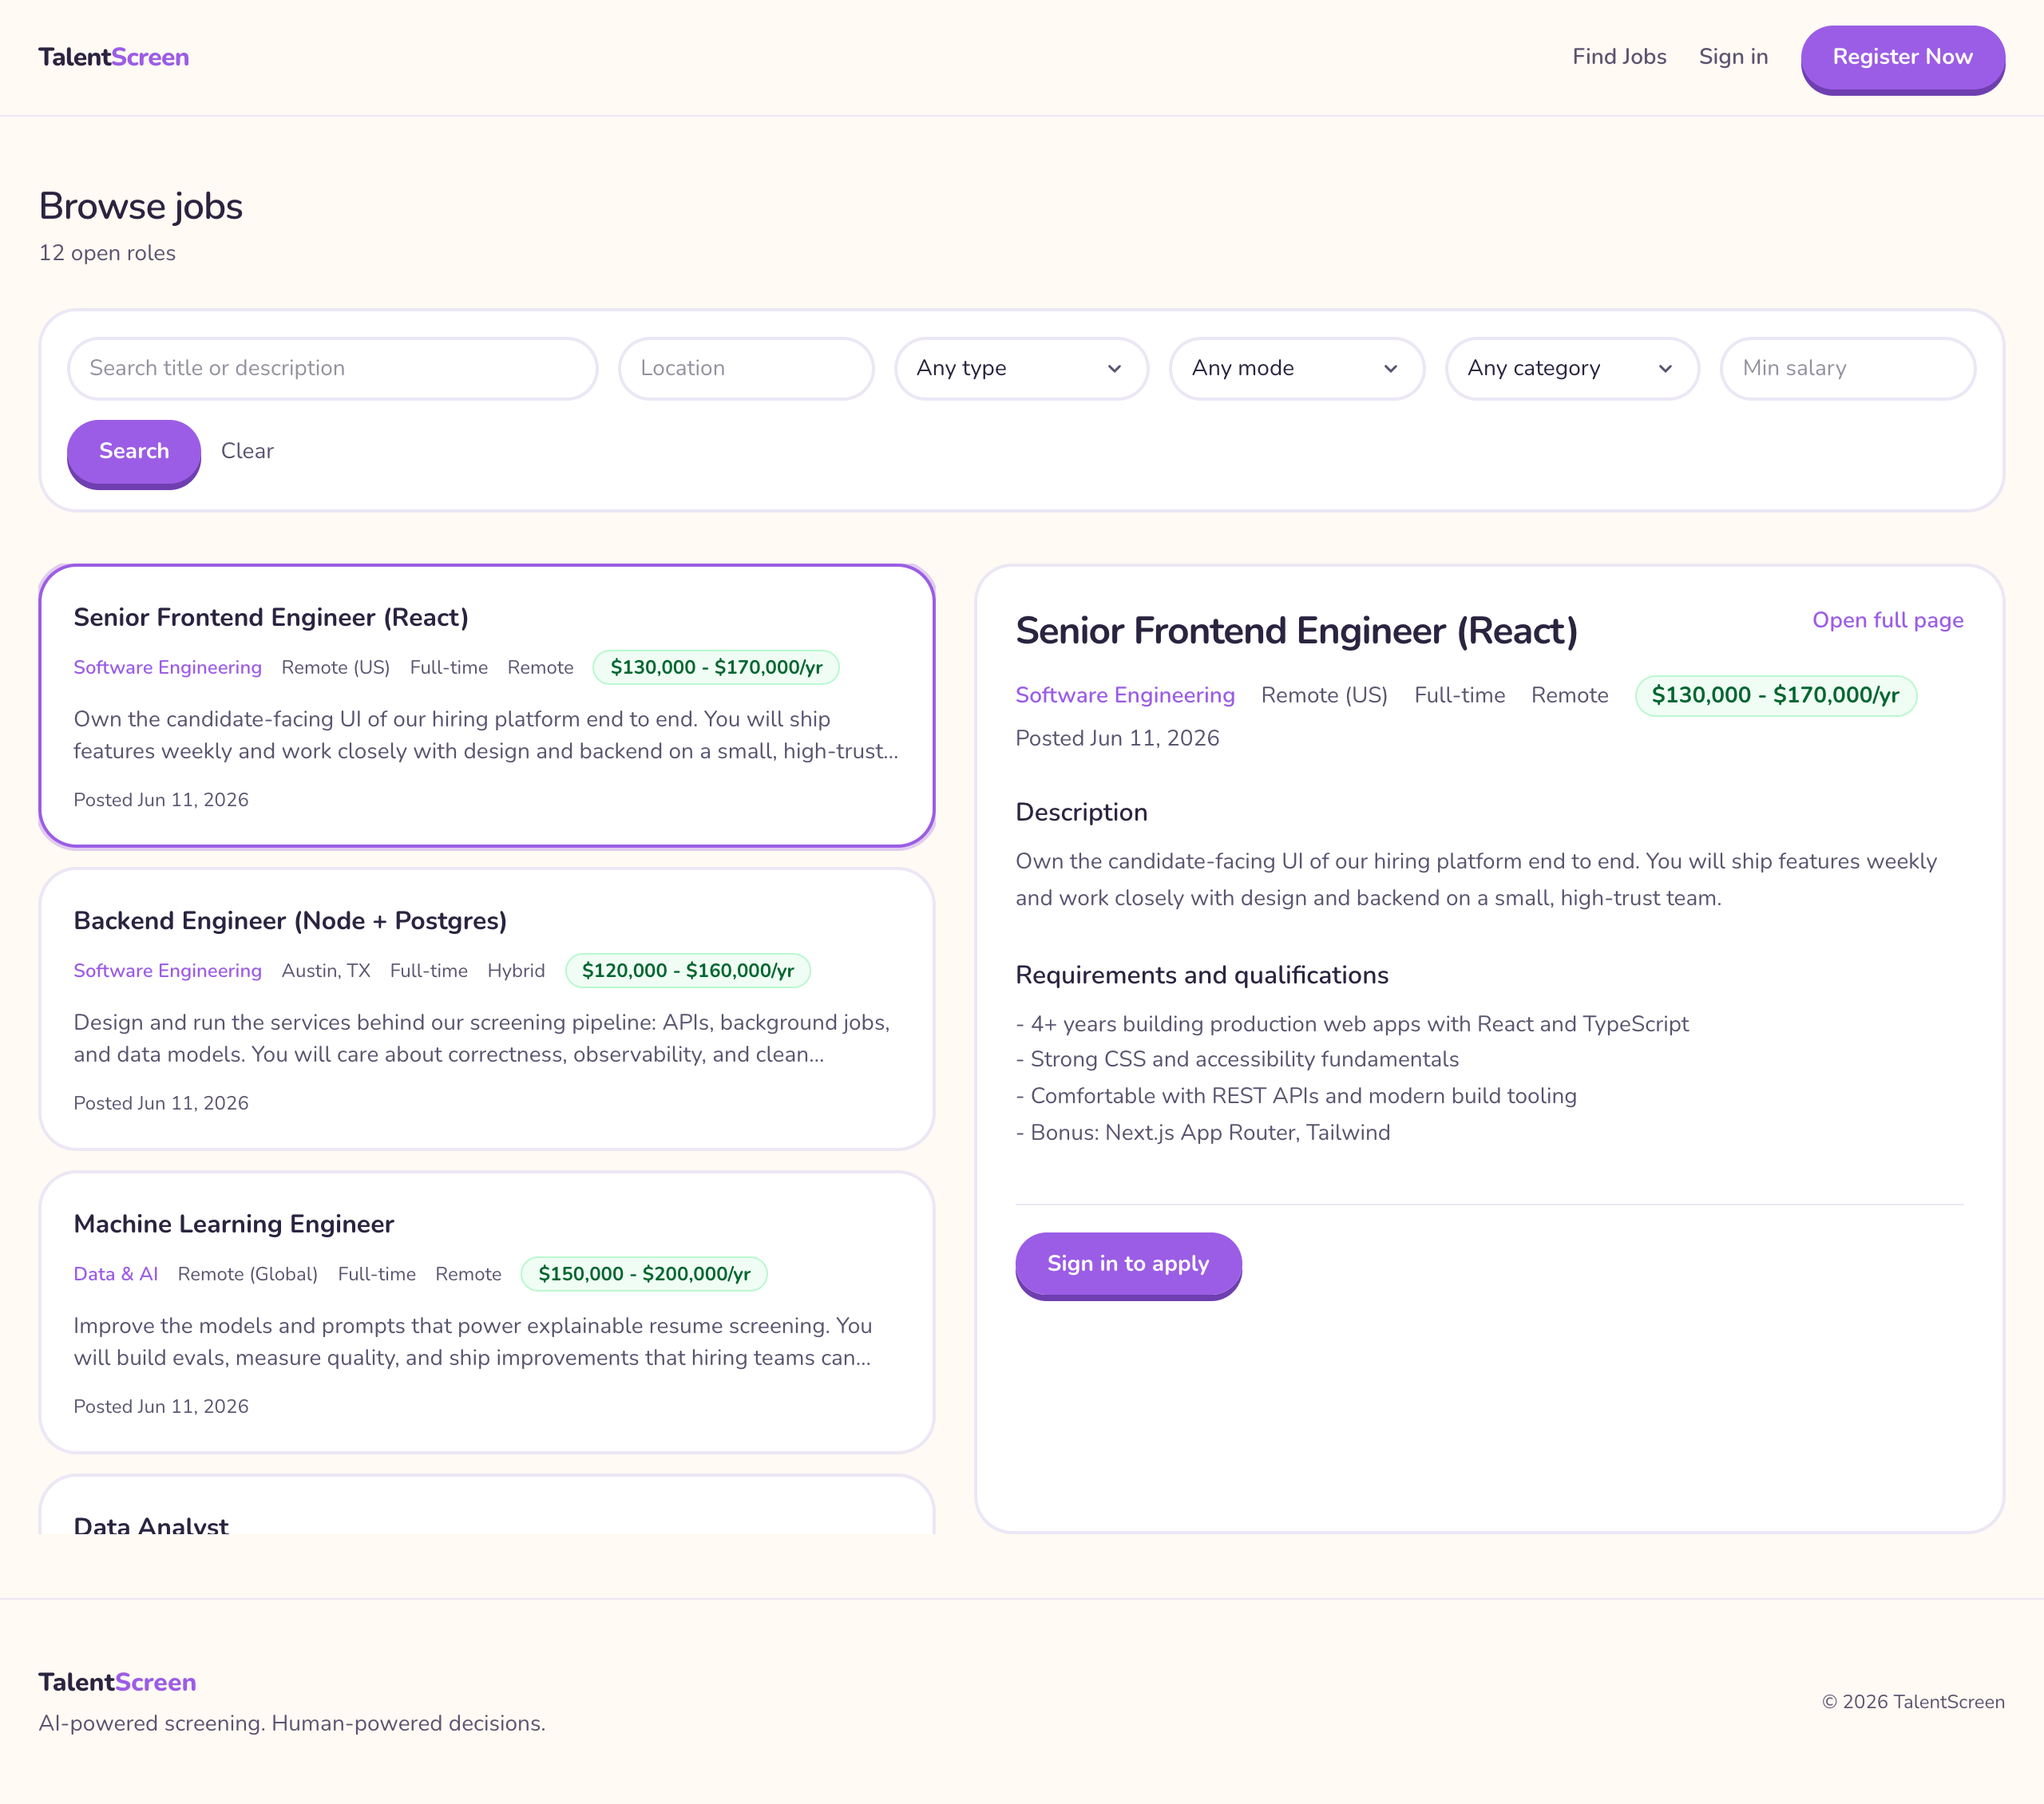
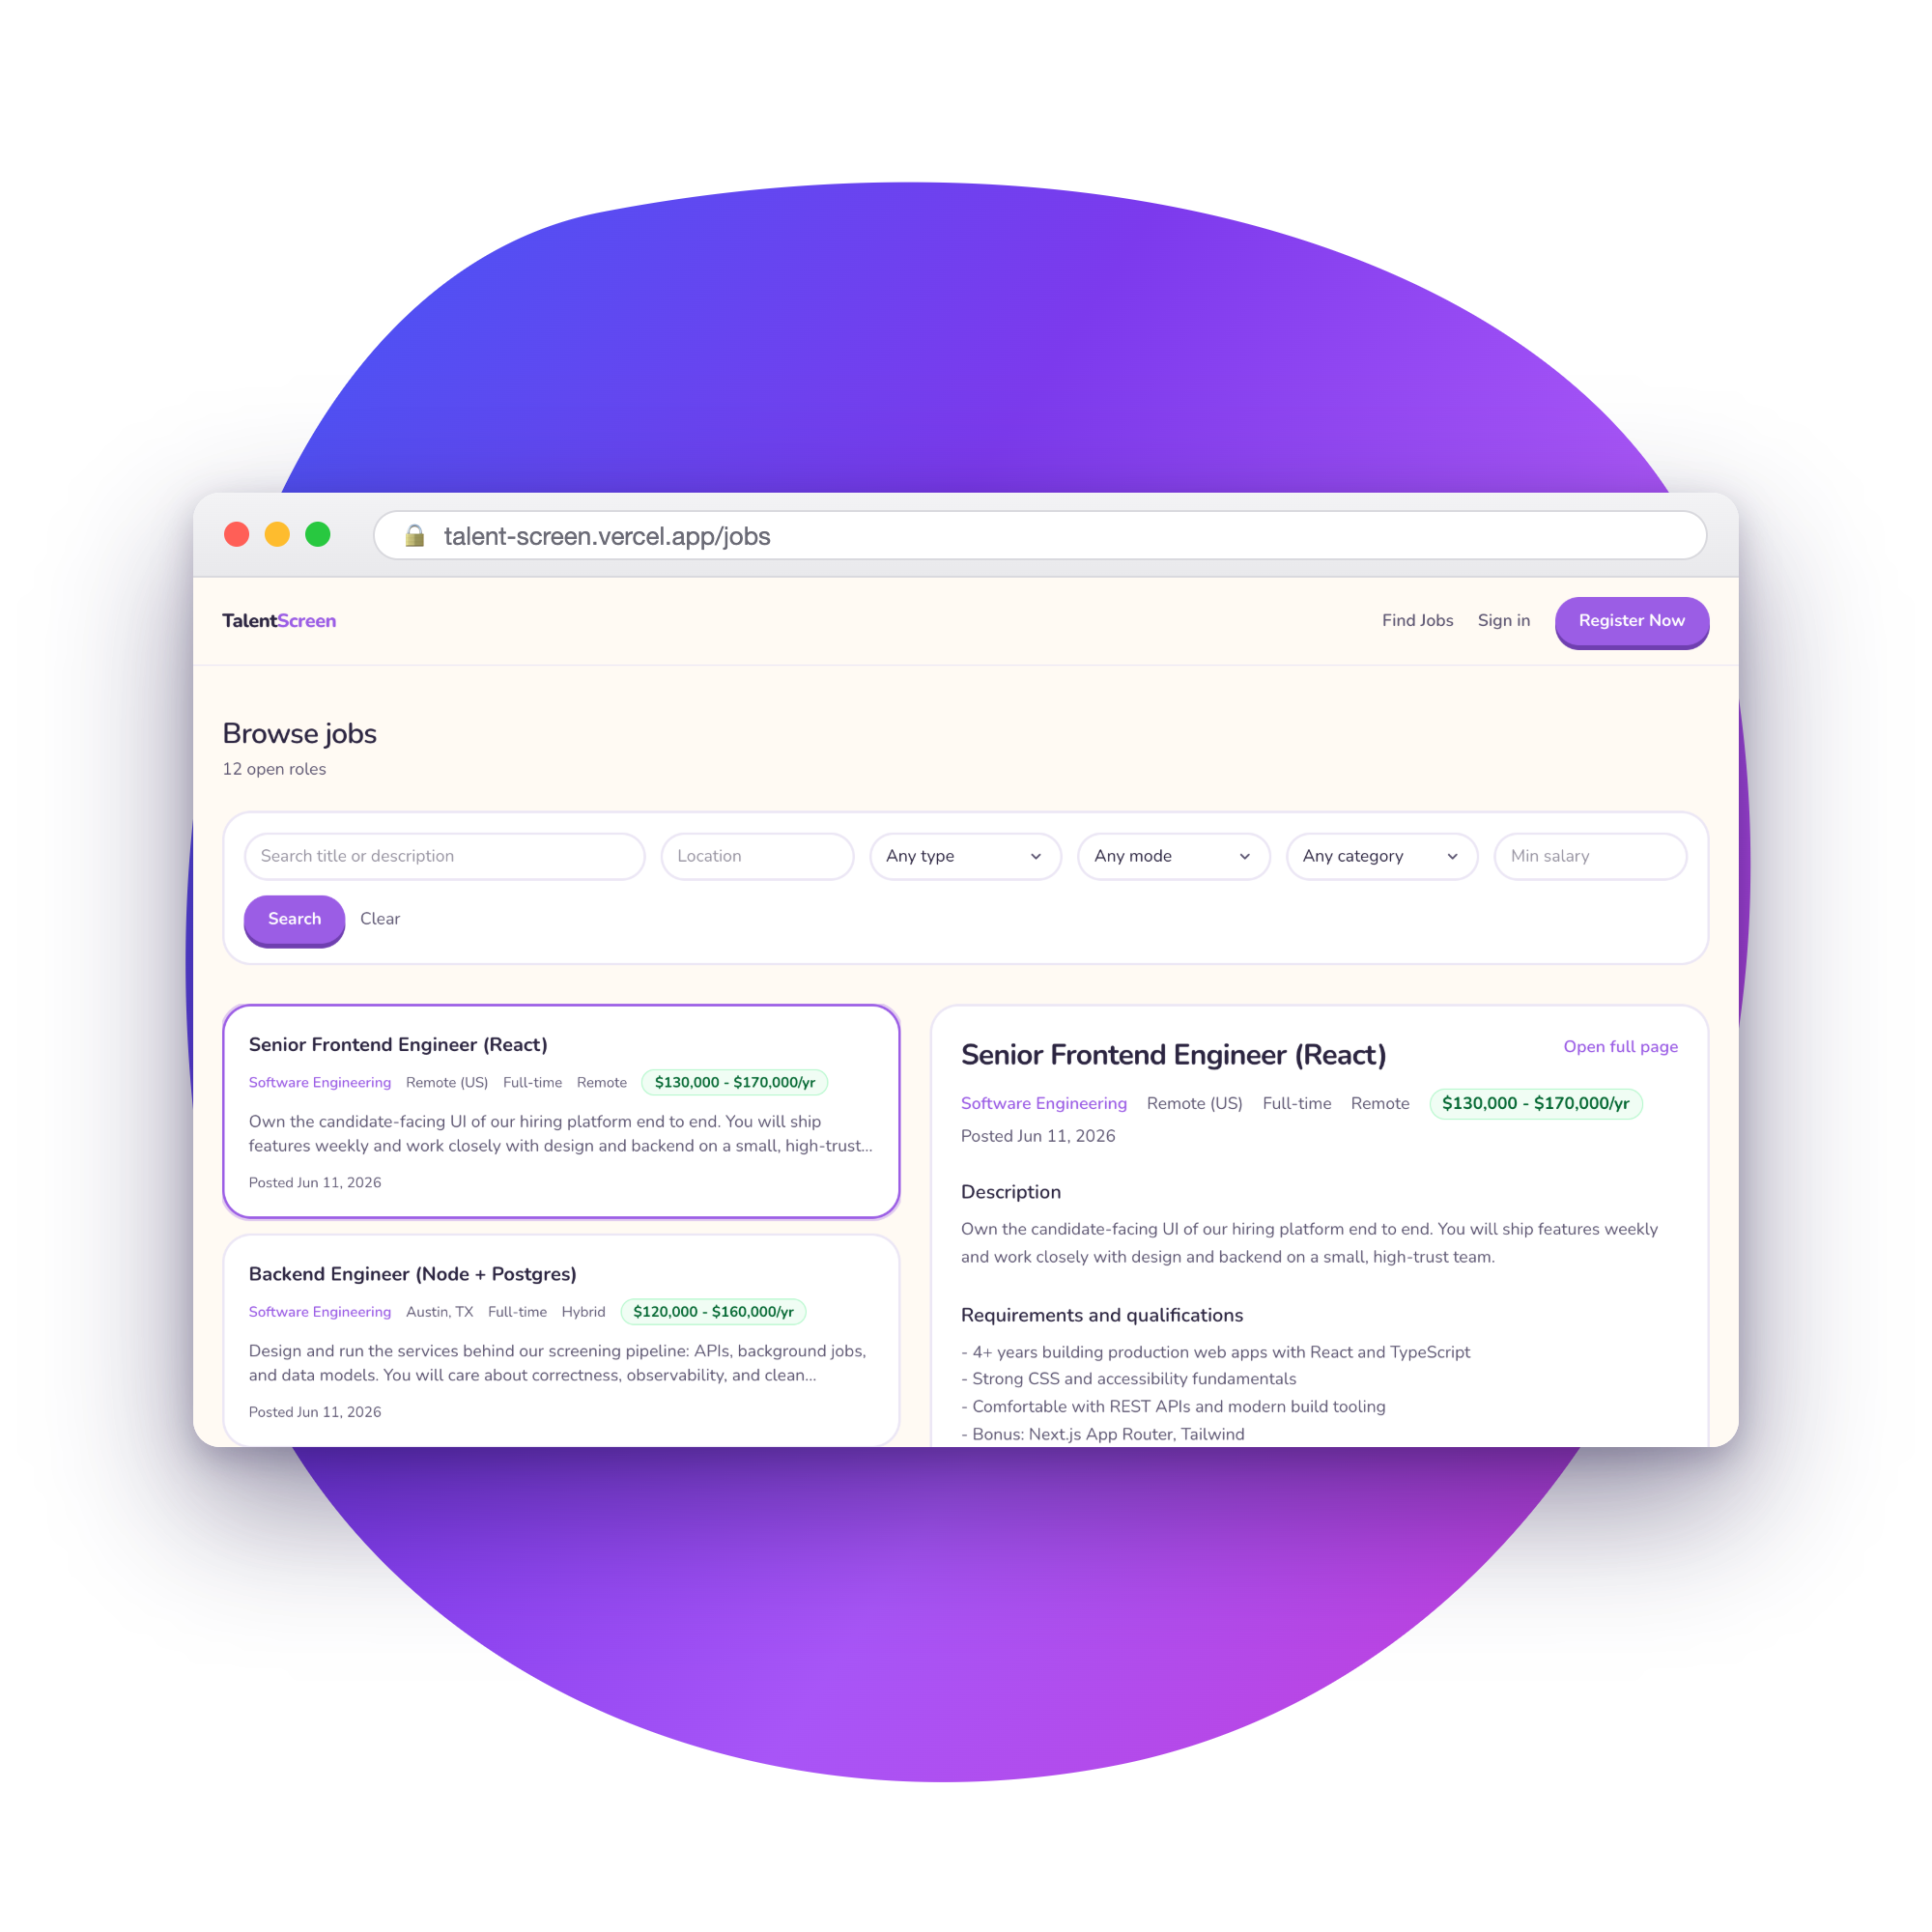
update : talentscreen blob design image, remove notelify project

diff --git a/lib/portfolio-data.ts b/lib/portfolio-data.ts
@@ -109,15 +109,6 @@ export const projects = [
     githubLink: 'https://github.com/jcarlo-vs/job-hiring-platform',
   },
   {
-    title: 'NOTELIFY APP',
-    description:
-      'A full-stack note-taking application with secure user authentication, personal data storage, and a clean interface that lets users organize thoughts and plans effortlessly.',
-    image: '/assets/images/notelifyv1.png',
-    technologies: ['MONGODB', 'EXPRESS JS', 'REACT JS', 'NODE JS'],
-    demoLink: 'https://notelify-app.vercel.app/landing',
-    githubLink: 'https://github.com/jcarlo-vs/NOTELIFY-APP',
-  },
-  {
     title: 'CRYPTO METER',
     description:
       'An all-in-one cryptocurrency library for browsing exchanges, tracking thousands of coins, reading crypto news, and calculating conversions — all in a single, responsive dashboard.',